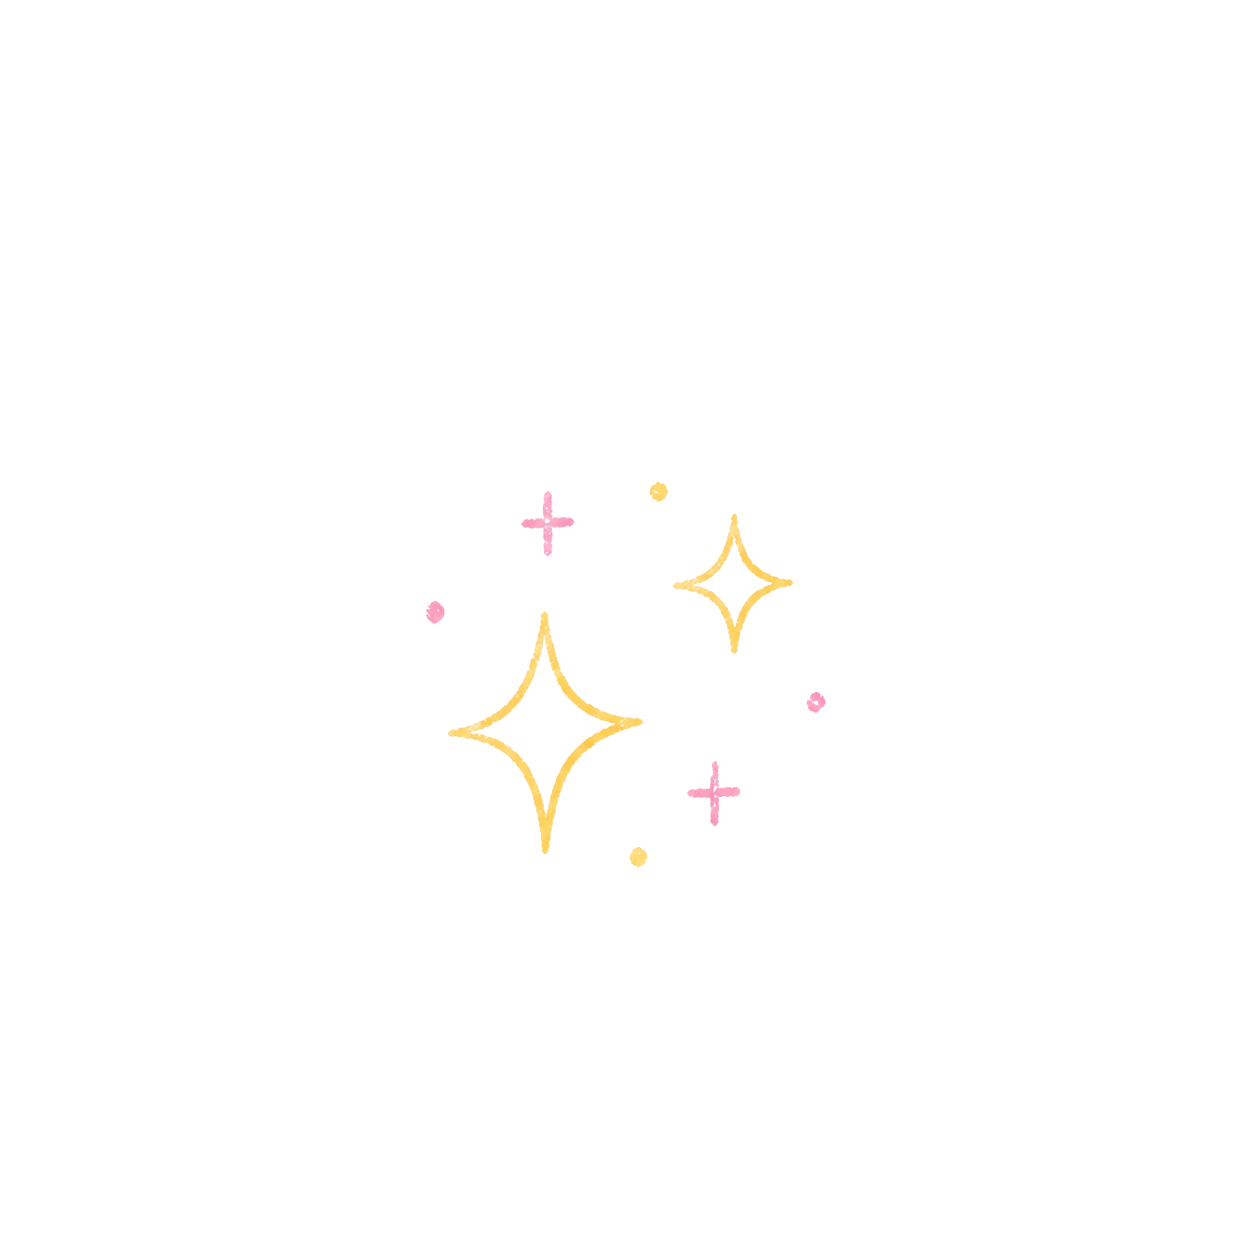
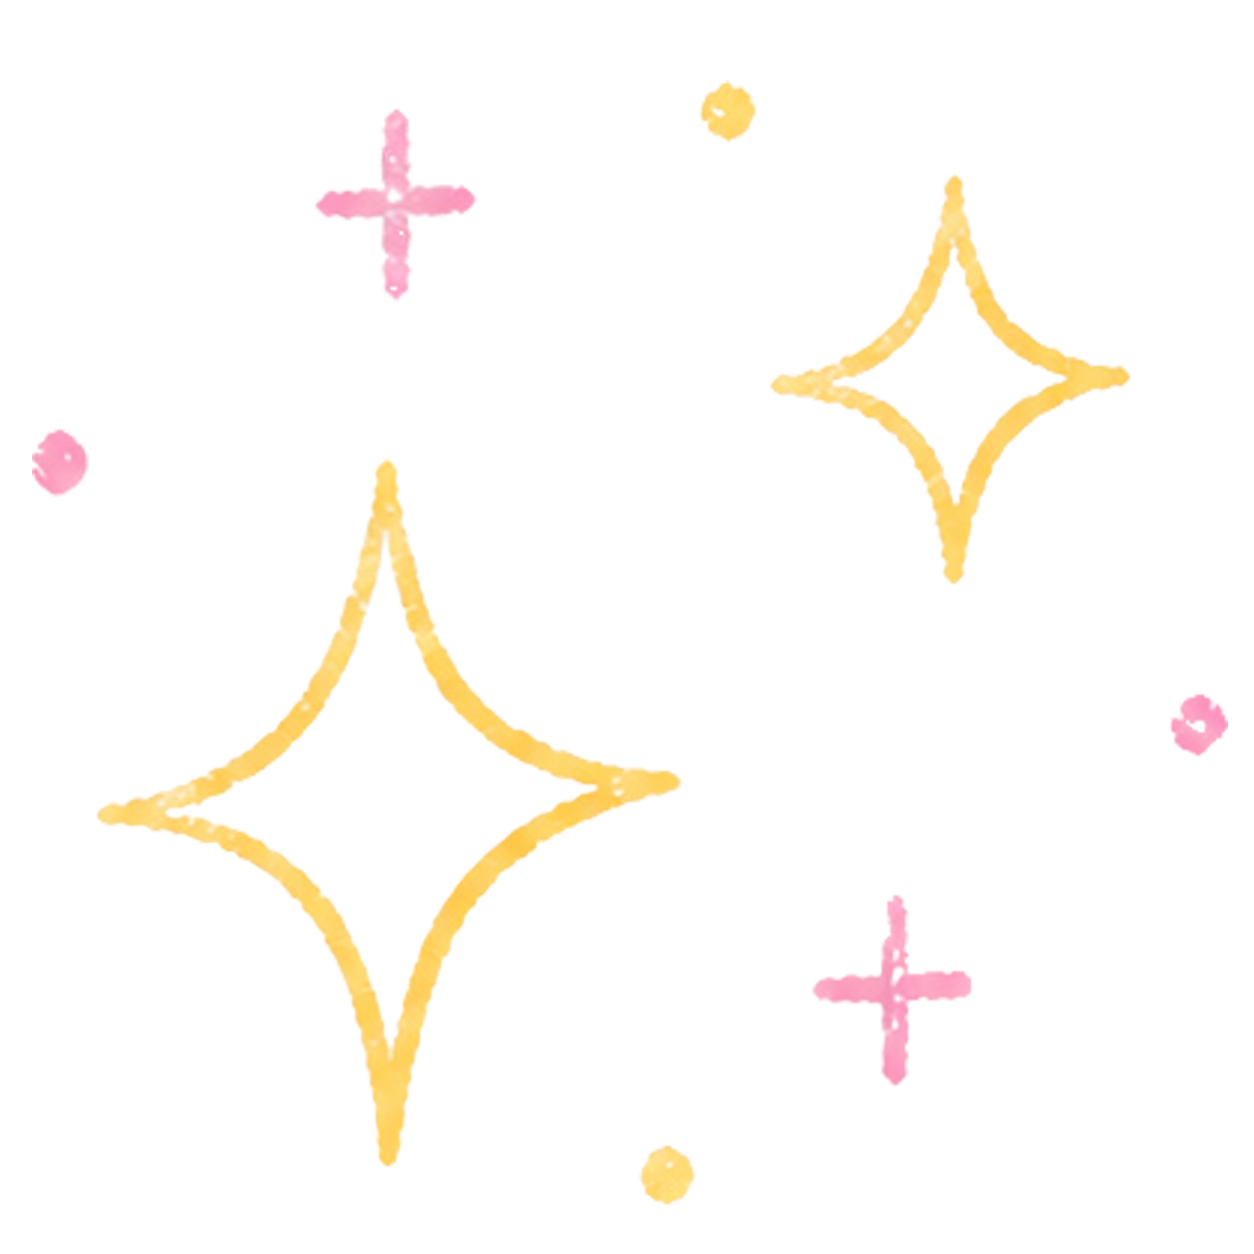
手绘素材位置v1

diff --git a/style.css b/style.css
@@ -741,10 +741,10 @@ body.menu-open .site-header {
 
 .doodle-about-stars {
   position: absolute;
-  top: -1.7rem;
-  left: -2.7rem;
-  width: 4.4rem;
-  transform: rotate(-8deg);
+  top: -2.2rem;
+  left: -3.6rem;
+  width: 4.2rem;
+  transform: rotate(-0deg);
 }
 
 .doodle-about-research {
@@ -772,10 +772,10 @@ body.menu-open .site-header {
 .name-spiral-underline {
   position: absolute;
   right: -0.4em;
-  bottom: -0.36em;
+  bottom: -0.45em;
   left: -0.18em;
   width: calc(100% + 0.58em);
-  height: 0.64em;
+  height: 0.85em;
   max-width: none;
   opacity: 0.88;
 }
@@ -792,8 +792,8 @@ body.menu-open .site-header {
 .section-heading-row {
   display: flex;
   align-items: center;
-  justify-content: space-between;
-  gap: 1rem;
+  justify-content: flex-start;
+  gap: 0.2rem;
   margin-bottom: 1rem;
 }
 
@@ -803,9 +803,9 @@ body.menu-open .site-header {
 
 .doodle-publication-book {
   flex: 0 0 auto;
-  width: 7.75rem;
-  margin: -0.95rem 2.1rem -0.7rem auto;
-  transform: rotate(-5deg);
+  width: 5.35rem;
+  margin: -0.65rem 0 -0.6rem 0.05rem;
+  transform: rotate(-4deg);
 }
 
 .prose,
@@ -893,18 +893,19 @@ body.menu-open .site-header {
 }
 
 .doodle-life-acg {
-  flex: 0 0 auto;
-  width: 9.75rem;
-  margin: -1.25rem 2.1rem -1.2rem auto;
+  position: absolute;
+  top: -4.25rem;
+  right: 0.7rem;
+  width: 8.2rem;
   transform: rotate(2deg);
 }
 
 .doodle-contact-envelope {
   position: absolute;
-  top: -1.35rem;
-  left: 5rem;
-  width: 4.7rem;
-  transform: rotate(-7deg);
+  top: 50%;
+  right: 0.25rem;
+  width: 5.5rem;
+  transform: translateY(-50%) rotate(-6deg);
 }
 
 .timeline {
@@ -934,6 +935,18 @@ body.menu-open .site-header {
   border-radius: 0;
   background: transparent;
   box-shadow: none;
+}
+
+.timeline-item-pku .timeline-body {
+  padding-right: 6.5rem;
+}
+
+.doodle-education-stars {
+  position: absolute;
+  top: 0.85rem;
+  right: 6rem;
+  width: 4rem;
+  transform: rotate(0deg);
 }
 
 .timeline-item:hover {
@@ -1026,9 +1039,14 @@ body.menu-open .site-header {
 }
 
 .life-item {
+  position: relative;
   padding: 0.5rem 0 0.5rem 1rem;
   border-left: 3px solid var(--neutral-200);
   transition: border-color var(--transition);
+}
+
+.life-item-acg {
+  padding-right: 6.5rem;
 }
 
 .life-item:hover {
@@ -1168,6 +1186,7 @@ body.menu-open .site-header {
 }
 
 .contact-list a {
+  position: relative;
   display: grid;
   gap: 0.125rem;
   padding: 0.5rem 0;
@@ -1186,6 +1205,11 @@ body.menu-open .site-header {
   box-shadow: none;
   transform: none;
   padding-left: 0.5rem;
+}
+
+.contact-email-link {
+  min-height: 5.6rem;
+  padding-right: 6.5rem !important;
 }
 
 .contact-list span {
@@ -1310,7 +1334,9 @@ body.menu-open .site-header {
   }
 
   .doodle-about-stars {
-    display: none;
+    top: -1.95rem;
+    left: -0.95rem;
+    width: 3.85rem;
   }
 
   .doodle-about-research {
@@ -1321,25 +1347,42 @@ body.menu-open .site-header {
   }
 
   .doodle-publication-book {
-    width: 5.7rem;
-    margin: -0.75rem 0 -0.45rem auto;
+    width: 4.6rem;
+    margin: -0.55rem 0 -0.45rem 0;
   }
 
   .life-heading-row {
     align-items: flex-start;
-    flex-wrap: wrap;
-    row-gap: 0.125rem;
   }
 
   .doodle-life-acg {
-    width: 6.9rem;
-    margin: -1.15rem 0 -0.85rem auto;
+    top: -3.35rem;
+    right: 0.2rem;
+    width: 5.8rem;
   }
 
   .doodle-contact-envelope {
-    top: -1.2rem;
-    left: 4.2rem;
-    width: 3.9rem;
+    right: 0;
+    width: 4.5rem;
+  }
+
+  .timeline-item-pku .timeline-body {
+    padding-right: 4.25rem;
+  }
+
+  .doodle-education-stars {
+    top: 1rem;
+    right: 0.1rem;
+    width: 3.5rem;
+  }
+
+  .life-item-acg {
+    padding-right: 4.8rem;
+  }
+
+  .contact-email-link {
+    min-height: 4.25rem;
+    padding-right: 4.6rem !important;
   }
 
   .portrait {

diff --git a/index.html b/index.html
@@ -170,7 +170,7 @@
       <div class="content-column">
         <section class="content-section" id="about">
           <h2 data-i18n="about.title">About</h2>
-          <img class="doodle-img doodle-about-stars" src="素材/4星星.png" alt="" aria-hidden="true" />
+          <img class="doodle-img doodle-about-stars" src="素材/1星星.png" alt="" aria-hidden="true" />
           <img class="doodle-img doodle-about-research" src="素材/2画盘.png" alt="" aria-hidden="true" />
           <div class="prose">
             <p data-i18n-html="about.p1">
@@ -285,7 +285,7 @@
                 <p class="muted-text" data-i18n="experience.location">Beijing, China</p>
               </div>
             </article>
-            <article class="timeline-item">
+            <article class="timeline-item timeline-item-pku">
               <div class="timeline-marker" aria-hidden="true"></div>
               <div class="timeline-body">
                 <p class="timeline-meta" data-i18n-html="experience.present"><strong><u>Present</u></strong></p>
@@ -296,6 +296,7 @@
                 </p>
                 <p class="muted-text" data-i18n="experience.location">Beijing, China</p>
               </div>
+              <img class="doodle-img doodle-education-stars" src="素材/4星星.png" alt="" aria-hidden="true" />
             </article>
             <article class="timeline-item">
               <div class="timeline-marker" aria-hidden="true"></div>
@@ -313,10 +314,10 @@
         <section class="content-section" id="life">
           <div class="life-heading-row">
             <h2 data-i18n="life.title">Beyond Research</h2>
-            <img class="doodle-img doodle-life-acg" src="素材/5二次元.png" alt="" aria-hidden="true" />
           </div>
           <div class="life-list">
-            <article class="life-item">
+            <article class="life-item life-item-acg">
+              <img class="doodle-img doodle-life-acg" src="素材/5二次元.png" alt="" aria-hidden="true" />
               <h3 data-i18n="life.acg.title">ACG</h3>
               <p data-i18n="life.anime.desc">
                 Animation, comics, and games are part of my long-term interests.
@@ -333,15 +334,15 @@
 
         <section class="content-section contact-section" id="contact">
           <h2 data-i18n="contact.title">Contact</h2>
-          <img class="doodle-img doodle-contact-envelope" src="素材/6信封.png" alt="" aria-hidden="true" />
           <p data-i18n="contact.desc">
             I am open to research conversations and collaborations around
             Generative AI and AIGC,etc!
           </p>
           <div class="contact-list">
-            <a href="mailto:zengjy (at) stu.pku.edu.cn">
+            <a class="contact-email-link" href="mailto:zengjy (at) stu.pku.edu.cn">
               <span data-i18n="contact.email">Email</span>
               <strong>zengjy (at) stu.pku.edu.cn</strong>
+              <img class="doodle-img doodle-contact-envelope" src="素材/6信封.png" alt="" aria-hidden="true" />
             </a>
             <a
               href="https://github.com/qqqqingmo"